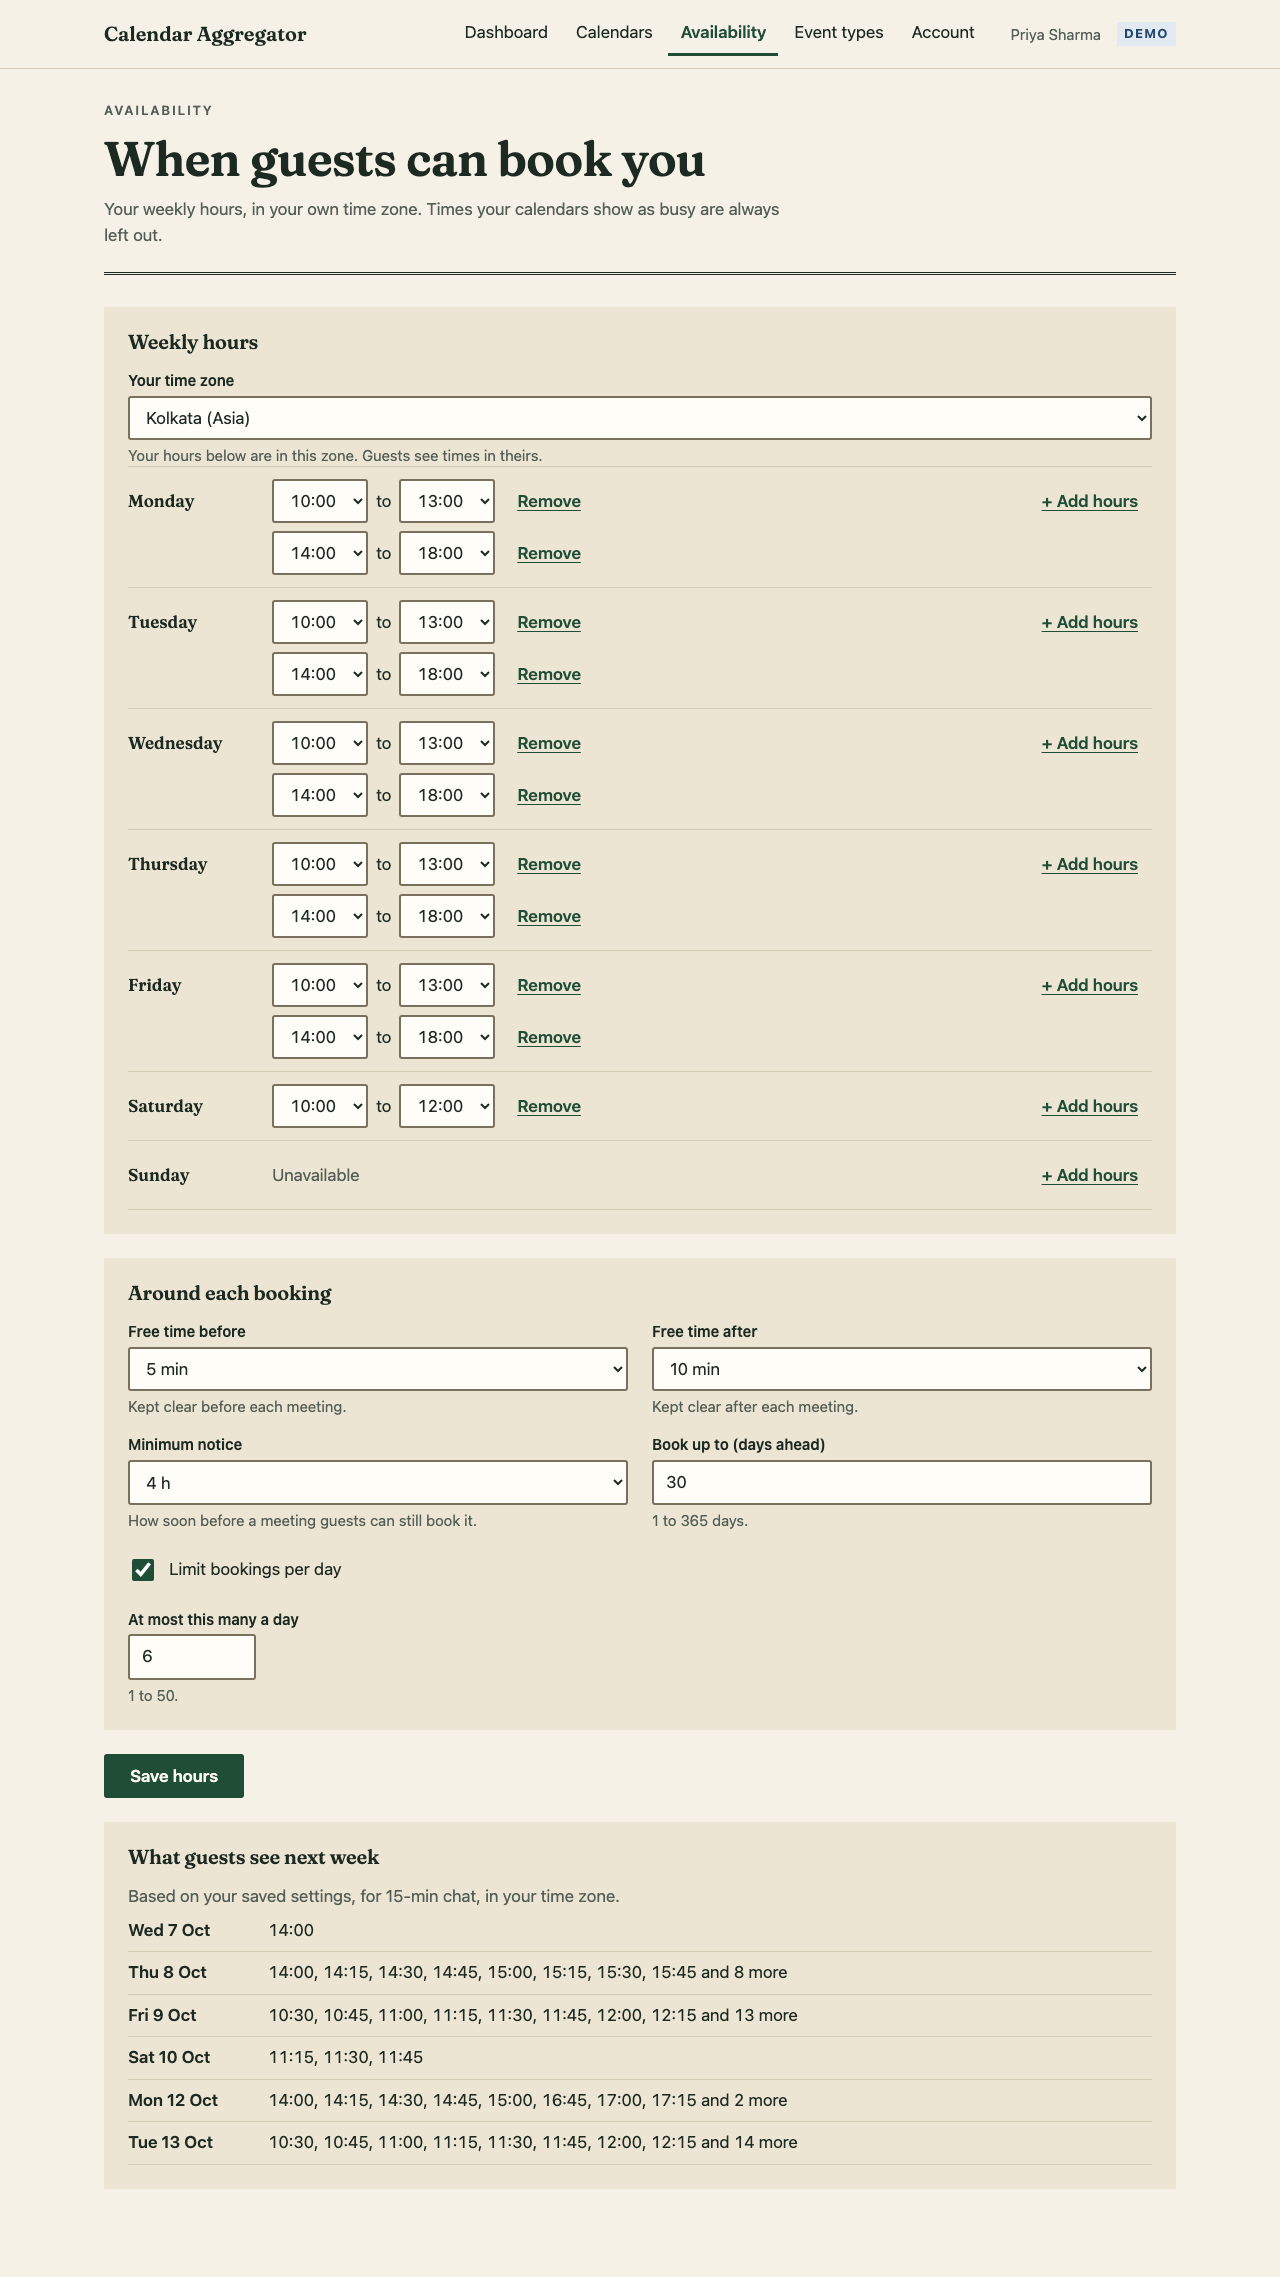
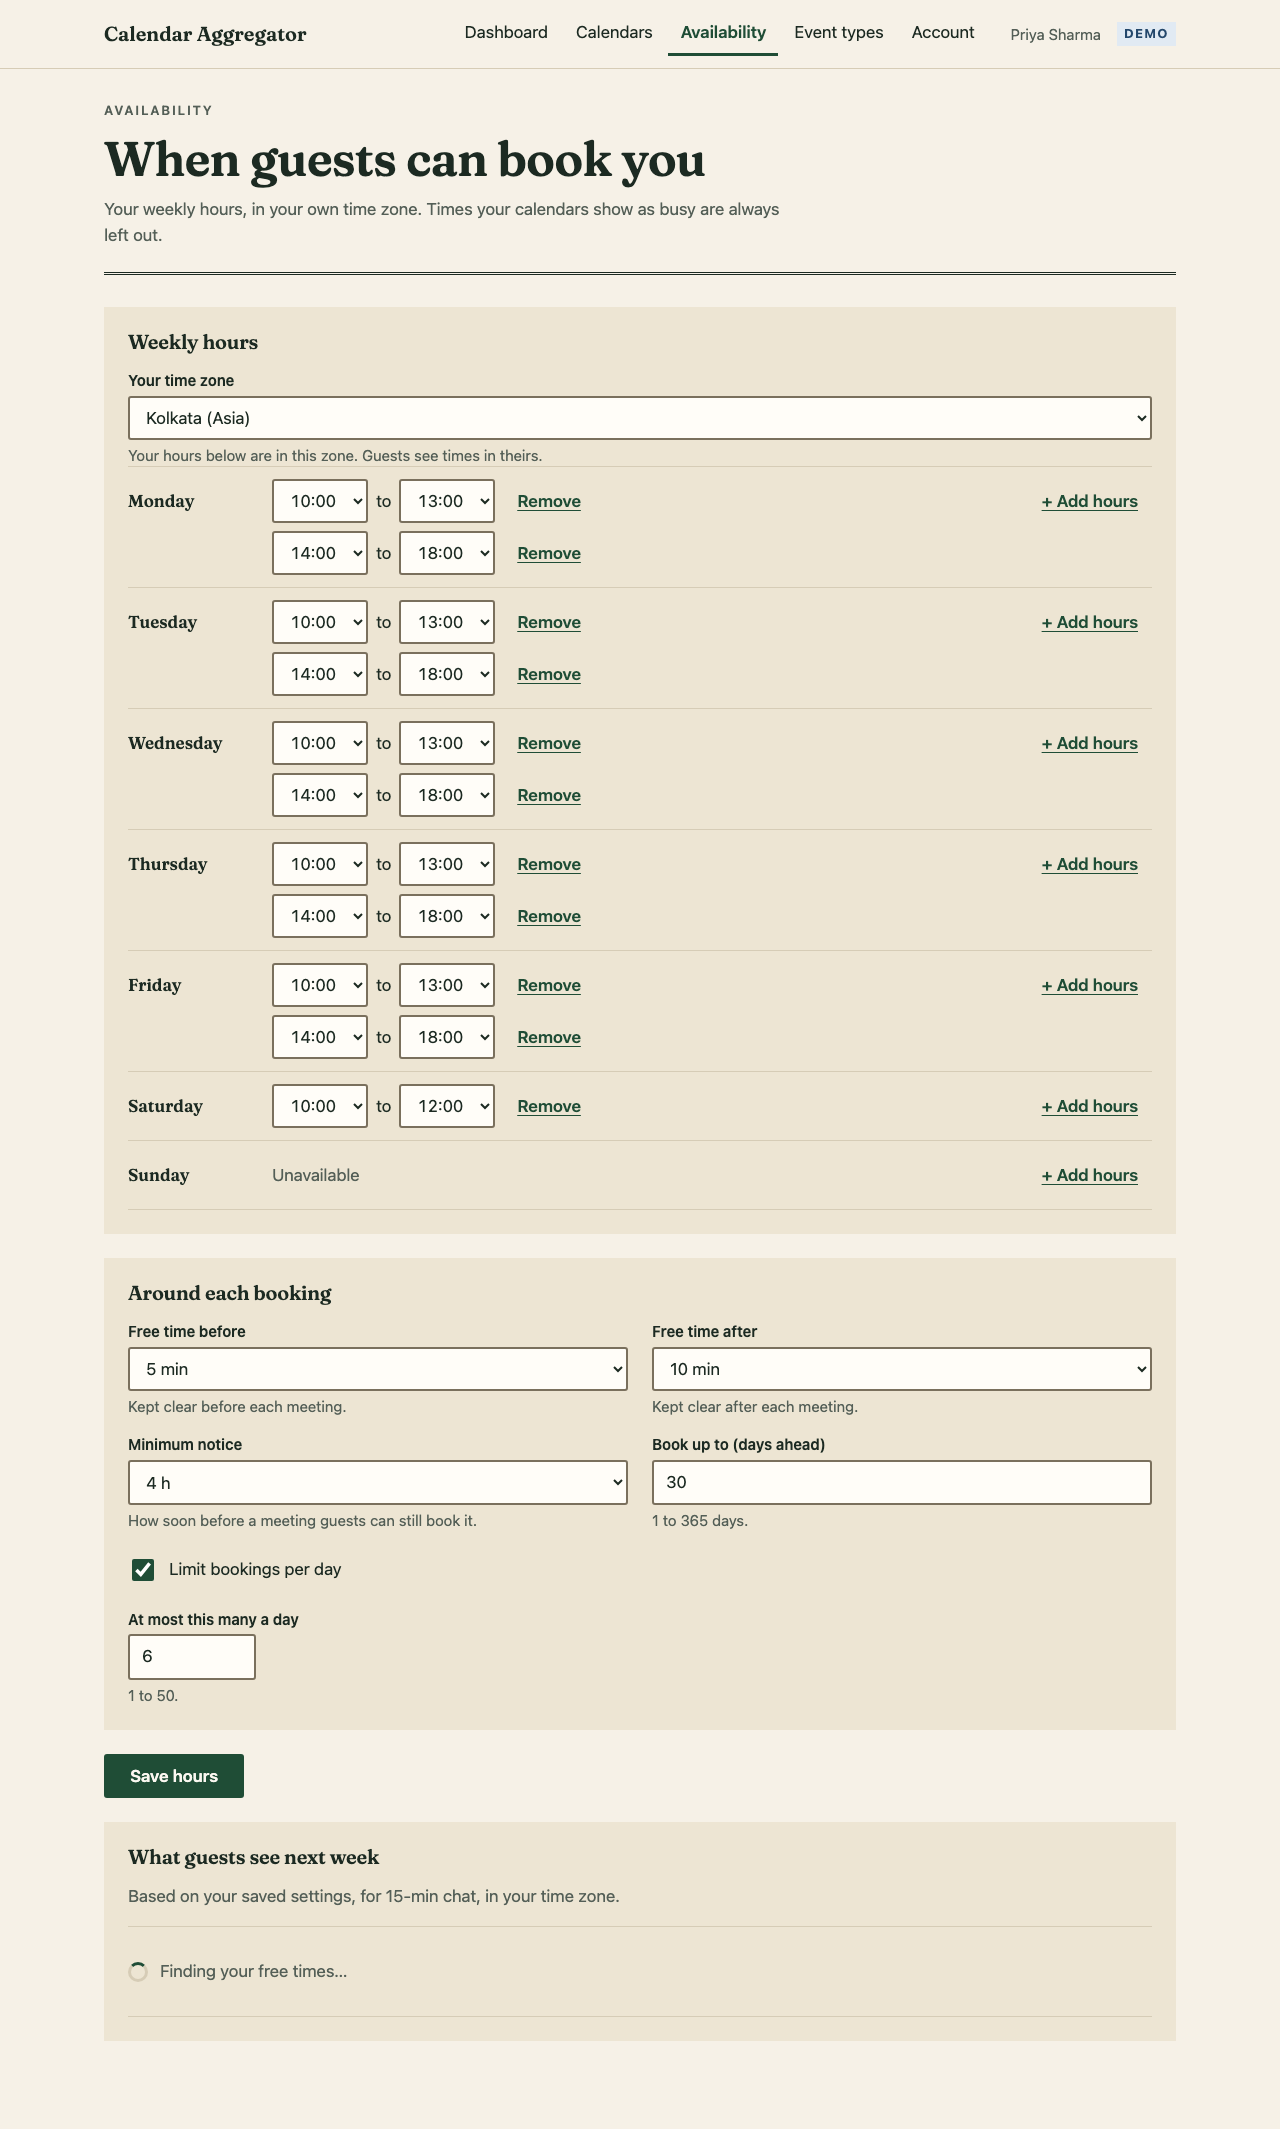
Retake the README screenshots on the live site
The dashboard's booking links showed the local test address; taken on
the deployed site they show its real one. npm run screenshots takes
LIVE_URL for that.

diff --git a/e2e/screenshots.config.ts b/e2e/screenshots.config.ts
@@ -2,10 +2,14 @@ import { defineConfig, devices } from '@playwright/test';
 import base from './playwright.config.ts';
 
 // `npm run screenshots`: the README's screenshots (docs/screenshots/), taken from the real app with
-// the same servers as the end-to-end test. Not part of the test run.
+// the same servers as the end-to-end test, or from a deployed site with LIVE_URL=<site> (so the
+// booking links show its real address). Not part of the test run.
+const live = process.env['LIVE_URL'];
+
 export default defineConfig({
   ...base,
   testMatch: 'screenshots.capture.ts',
   reporter: 'list',
   projects: [{ name: 'screenshots', use: { ...devices['Desktop Chrome'] } }],
+  ...(live ? { use: { ...base.use, baseURL: live }, webServer: undefined } : {}),
 });

diff --git a/docs/PLAN.md b/docs/PLAN.md
@@ -678,7 +678,7 @@ Checked live on the dev servers: the restarted API rebuilt the never-reset demo 
 
 ### Screenshots and README
 
-- `docs/screenshots/` are taken from the real app by Playwright (`npm run screenshots`, a separate config that reuses the test's servers; each shot waits for its page's content so it never catches a spinner).
+- `docs/screenshots/` are taken from the real app by Playwright (`npm run screenshots`, a separate config that reuses the test's servers; each shot waits for its page's content so it never catches a spinner). Retaken on the live site in phase 12 (`LIVE_URL=<site> npm run screenshots`), so the booking links show its real address.
 - The README is written for recruiters: the demo story, features, Mermaid diagrams of the architecture, the Google sign-in sequence and the booking flow (checked to render with Mermaid 11), the slot algorithm with its worked example, the CalendarProvider interface and why it exists, privacy and security, design decisions, known trade-offs (plus "demo bookings don't survive a demo reset"), the testing approach, running locally, and the hook. The live link is a placeholder until phase 12.
 
 ## Phase 12 decisions (deployment)
